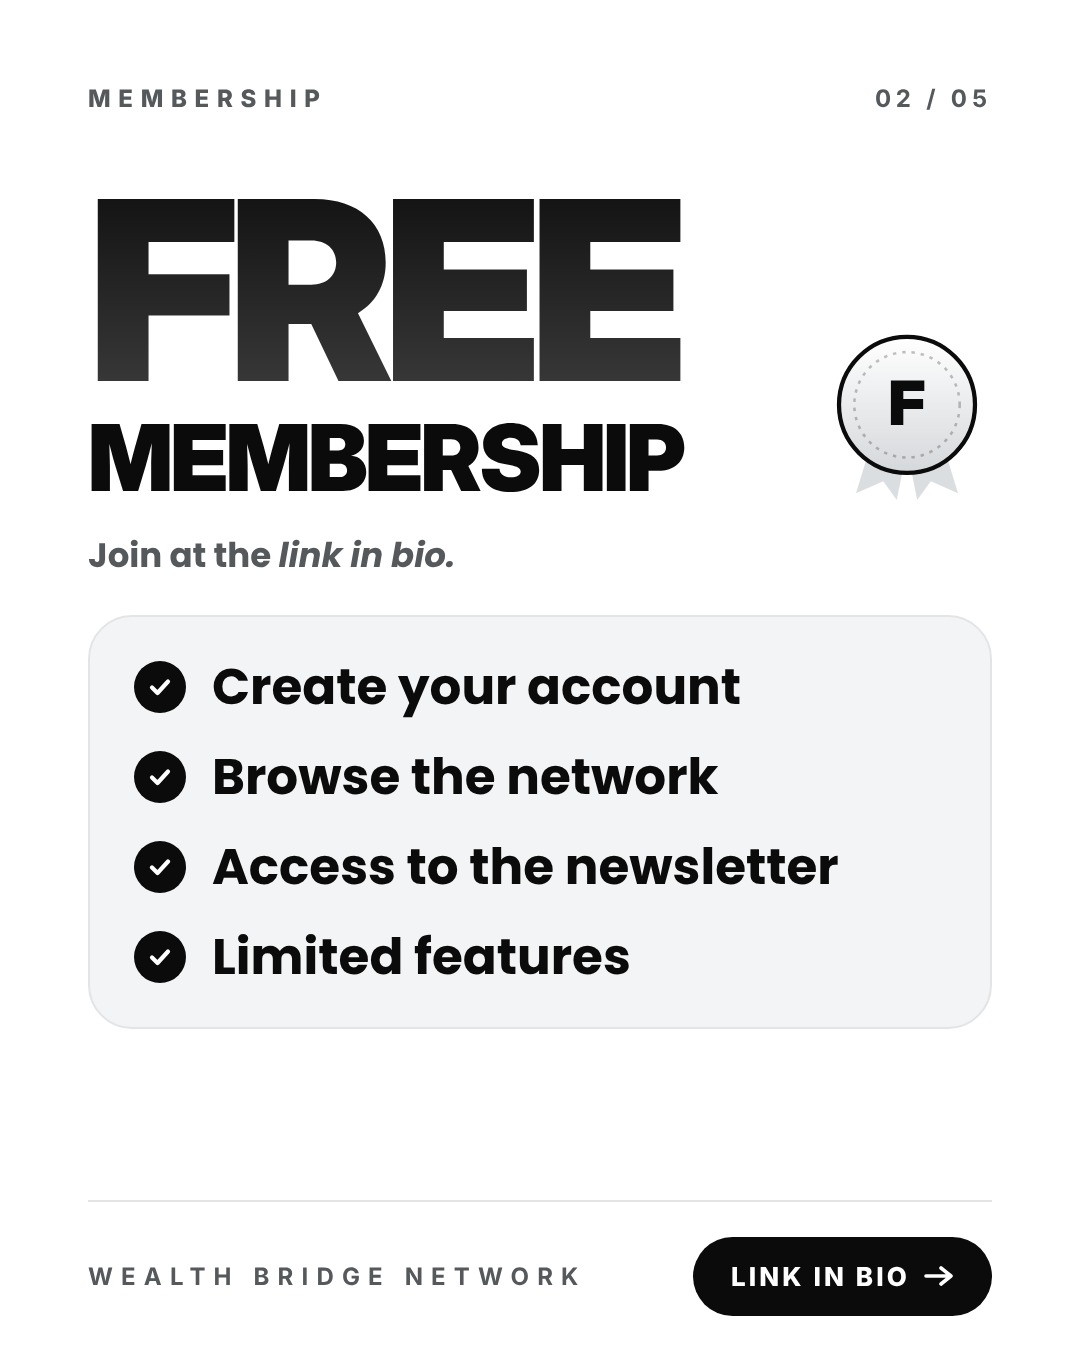
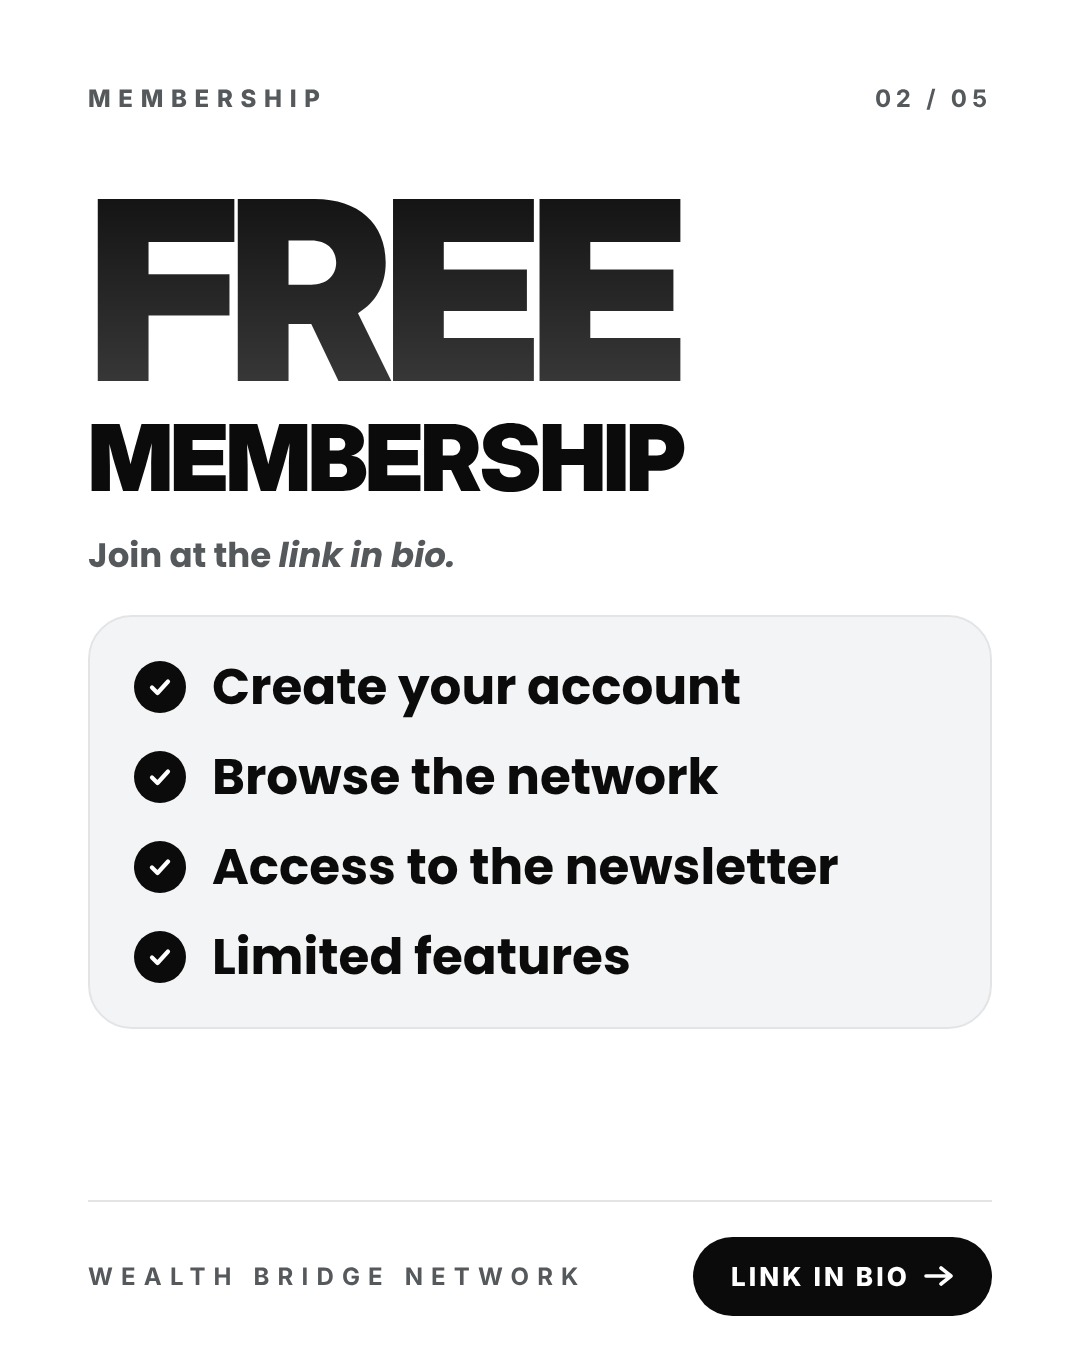
Membership carousel: remove medal badges from tier slides
Claude-Session: https://claude.ai/code/session_01XWHiAw1FC92SEhPtnn4Xv2

Changed region(s): [[0.7639, 0.2489, 0.9167, 0.3733]]

diff --git a/scripts/render_cards.py b/scripts/render_cards.py
@@ -122,7 +122,7 @@ def s_tier(s, i, n):
     th = s["theme"]
     chk = THEMES[th]["chki"]
     items = "".join(f'<div class="it"><div class="ck">{CHECK.format(c=chk)}</div><div>{md(x).replace("[v]", VERIFIED)}</div></div>' for x in s["items"])
-    inner = (badge(th, s["letter"])
+    inner = ((badge(th, s["letter"]) if s.get("badge") else "")
              + f'<div class="big name grad" style="font-size:{s.get("size", 250)}px">{s["name"]}</div>'
              f'<div class="mem">Membership</div>'
              f'<div class="kick">{md(s["kicker"])}</div>'
